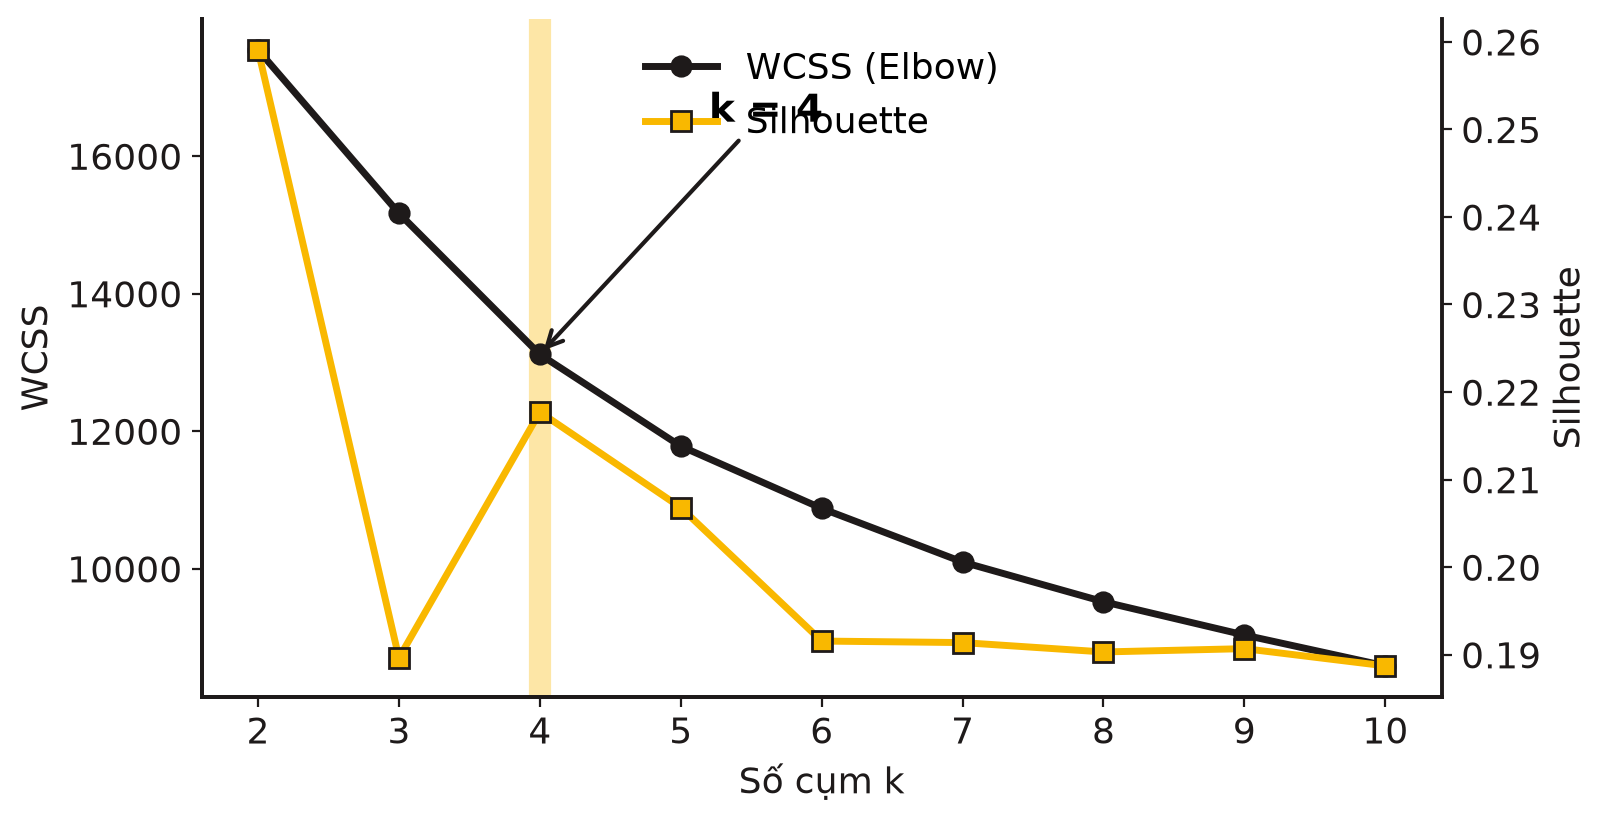
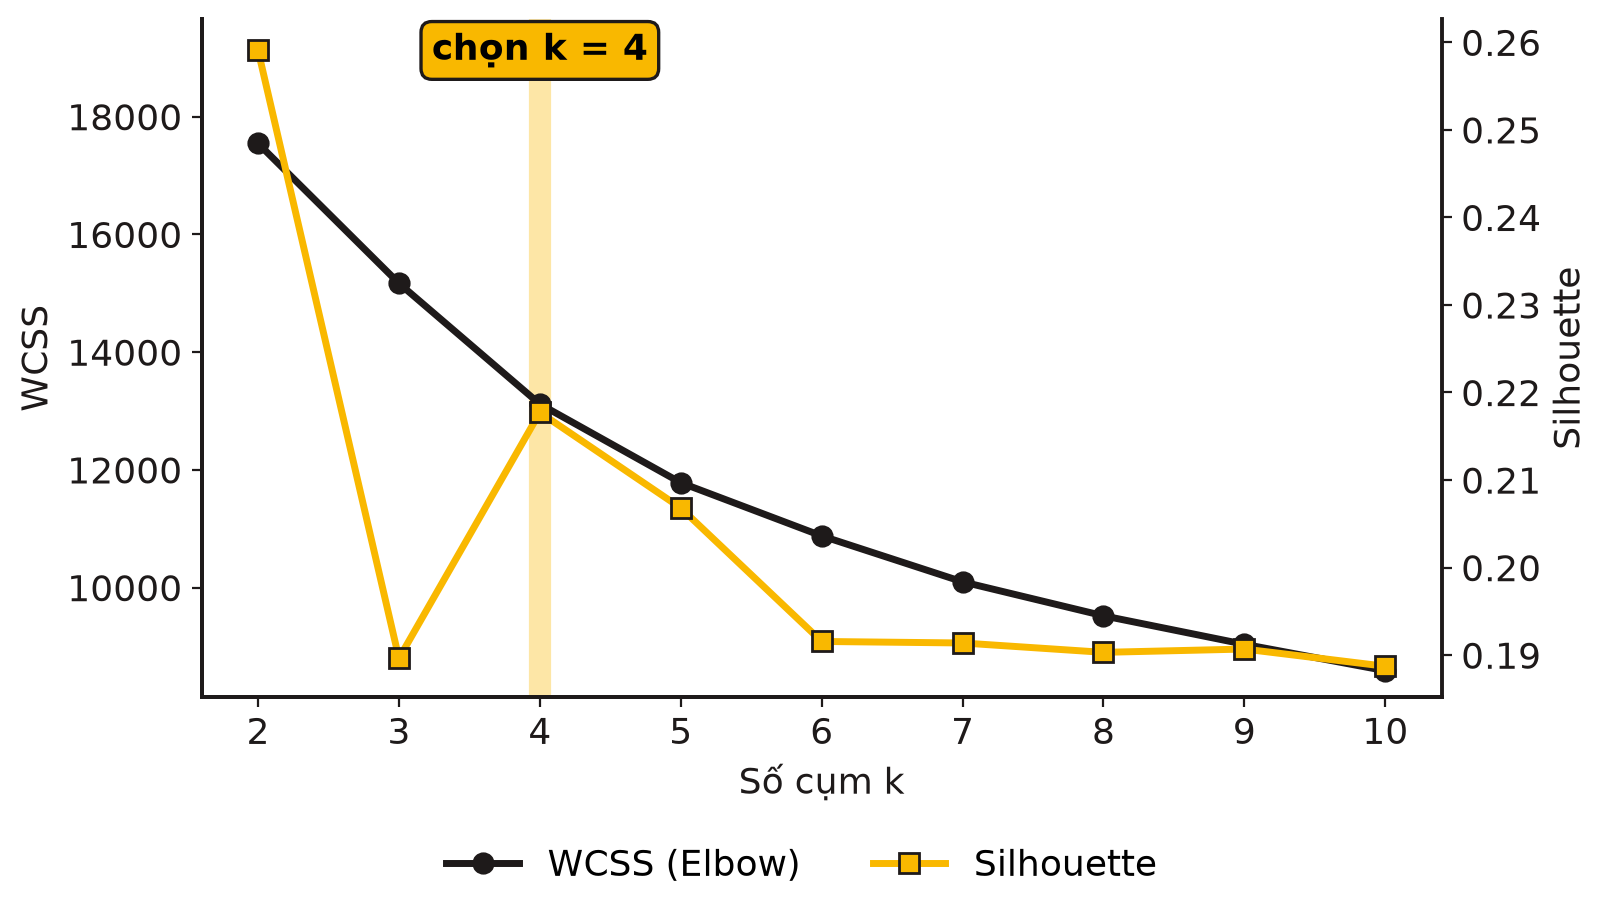
Vẽ lại biểu đồ slide: tách nhãn k=4 khỏi chú giải, thêm biểu đồ độ quan trọng đặc trưng

diff --git a/slides/make_charts.py b/slides/make_charts.py
@@ -62,24 +62,29 @@ ax2 = ax1.twinx(); ax2.spines["right"].set_visible(True)
 ax2.plot(t["n_clusters"], t["silhouette"], "-s", color=YELLOW, lw=2.5, ms=7, mec=BLACK, label="Silhouette")
 ax2.set_ylabel("Silhouette")
 ax1.axvline(4, color=YELLOW, lw=8, alpha=0.35, zorder=0)
-ax1.annotate("k = 4", xy=(4, t.loc[t.n_clusters == 4, "inertia"].item()), xytext=(5.2, 16500),
-             fontsize=14, fontweight="bold", arrowprops=dict(arrowstyle="->", color=BLACK, lw=1.5))
+ax1.set_xticks(t["n_clusters"])
+ymax = t["inertia"].max()
+ax1.set_ylim(top=ymax * 1.12)
+ax1.text(4, ymax * 1.09, "chọn k = 4", ha="center", va="center", fontsize=13, fontweight="bold",
+         bbox=dict(boxstyle="round,pad=0.3", fc=YELLOW, ec=BLACK, lw=1.2))
 lines = ax1.get_legend_handles_labels(); lines2 = ax2.get_legend_handles_labels()
-ax1.legend(lines[0] + lines2[0], lines[1] + lines2[1], frameon=False, loc="upper center")
+fig.legend(lines[0] + lines2[0], lines[1] + lines2[1], frameon=False, loc="lower center",
+           ncol=2, bbox_to_anchor=(0.5, -0.14))
 save(fig, "s_elbow.png")
 
 # 3) So sánh mô hình
 m = pd.read_csv(ROOT / "evaluation/results/model_comparison.csv")
-names = ["K-Means\nk=4", "Hierarchical\nward k=5", "DBSCAN\n(eps=0.735)"]
-fig, axes = plt.subplots(1, 3, figsize=(10, 3.6))
+names = ["K-Means\nk=4", "Hierarchical\nk=5", "DBSCAN"]
+fig, axes = plt.subplots(1, 3, figsize=(10, 3.8))
 for ax, col, title, better in zip(axes, ["Silhouette", "Davies-Bouldin", "Calinski-Harabasz"],
                                   ["Silhouette ↑", "Davies–Bouldin ↓", "Calinski–Harabasz ↑"], [1, -1, 1]):
     vals = m[col].to_numpy()
     colors = [YELLOW, LIGHT, LIGHT]
     ax.bar(range(3), vals, color=colors, edgecolor=BLACK, linewidth=1.4)
     for i, v in enumerate(vals):
-        ax.text(i, v * 1.03, f"{v:,.3f}" if v < 100 else f"{v:,.0f}", ha="center", fontsize=11, fontweight="bold")
-    ax.set_title(title, fontweight="bold"); ax.set_xticks(range(3), names, fontsize=10)
+        lab = f"{v:.2f}".replace(".", ",") if col != "Calinski-Harabasz" else f"{v:,.0f}".replace(",", ".")
+        ax.text(i, v + vals.max() * 0.03, lab, ha="center", fontsize=14, fontweight="bold")
+    ax.set_title(title, fontweight="bold", fontsize=15, pad=10); ax.set_xticks(range(3), names, fontsize=12)
     ax.set_yticks([]); ax.spines["left"].set_visible(False); ax.set_ylim(0, vals.max() * 1.2)
 fig.tight_layout()
 save(fig, "s_model_compare.png")
@@ -92,15 +97,34 @@ mean = np.log1p(mean.clip(lower=0))
 norm = (mean - mean.min()) / (mean.max() - mean.min()).replace(0, 1)
 norm["Recency"] = 1 - norm["Recency"]
 ang = np.linspace(0, 2 * np.pi, len(feats), endpoint=False).tolist(); ang += ang[:1]
-fig = plt.figure(figsize=(6.4, 6.4)); ax = plt.subplot(polar=True)
+fig = plt.figure(figsize=(7.2, 6.4)); ax = plt.subplot(polar=True)
 for p in PERSONA_ORDER:
     v = norm.loc[p].tolist(); v += v[:1]
-    ax.plot(ang, v, color=BLACK if p == "VIP" else PERSONA_COLORS[p], lw=2.2)
-    ax.fill(ang, v, color=PERSONA_COLORS[p], alpha=0.35, label=p)
-ax.set_xticks(ang[:-1], labels, fontsize=12, fontweight="bold"); ax.set_yticks([])
+    ax.plot(ang, v, color=BLACK if p == "VIP" else PERSONA_COLORS[p], lw=2.4)
+    ax.fill(ang, v, color=PERSONA_COLORS[p], alpha=0.30, label=p)
+ax.set_xticks(ang[:-1], [""] * len(labels)); ax.set_yticks([])
+ax.set_ylim(0, 1.05)
+for a, lab in zip(ang[:-1], labels):
+    c = np.cos(a)
+    ax.text(a, 1.2, lab, fontsize=14, fontweight="bold", va="center",
+            ha="center" if abs(c) < 0.3 else ("left" if c > 0 else "right"))
 ax.spines["polar"].set_color(BLACK)
-ax.legend(loc="upper right", bbox_to_anchor=(1.28, 1.1), frameon=False)
+fig.legend(loc="lower center", ncol=4, frameon=False, fontsize=13, bbox_to_anchor=(0.5, -0.04))
 save(fig, "s_radar.png")
+
+# 4b) Độ quan trọng đặc trưng: nhãn K-Means đổi bao nhiêu khi xáo trộn từng biến
+fi = pd.read_csv(ROOT / "evaluation/results/feature_importance.csv")
+vi = dict(zip(feats, labels))
+fi = fi.sort_values("kmeans_change_mean")
+fig, ax = plt.subplots(figsize=(7.6, 4.6))
+cols = [YELLOW if r >= len(fi) - 2 else LIGHT for r in range(len(fi))]
+ax.barh([vi[f] for f in fi["feature"]], fi["kmeans_change_mean"] * 100, color=cols, edgecolor=BLACK, linewidth=1.3)
+for i, v in enumerate(fi["kmeans_change_mean"] * 100):
+    ax.text(v + 0.4, i, f"{v:.0f}%", va="center", fontsize=13, fontweight="bold")
+ax.set_xlabel("% khách đổi cụm khi xáo trộn đặc trưng", fontsize=13)
+ax.tick_params(axis="y", labelsize=14); ax.set_xticks([]); ax.spines["bottom"].set_visible(False)
+ax.set_xlim(0, fi["kmeans_change_mean"].max() * 100 * 1.18)
+save(fig, "s_importance.png")
 
 # 5) Phễu làm sạch dữ liệu
 steps = [("Dữ liệu thô", 1067371), ("Có Customer ID", 824364), ("Bỏ trùng", 797885),
